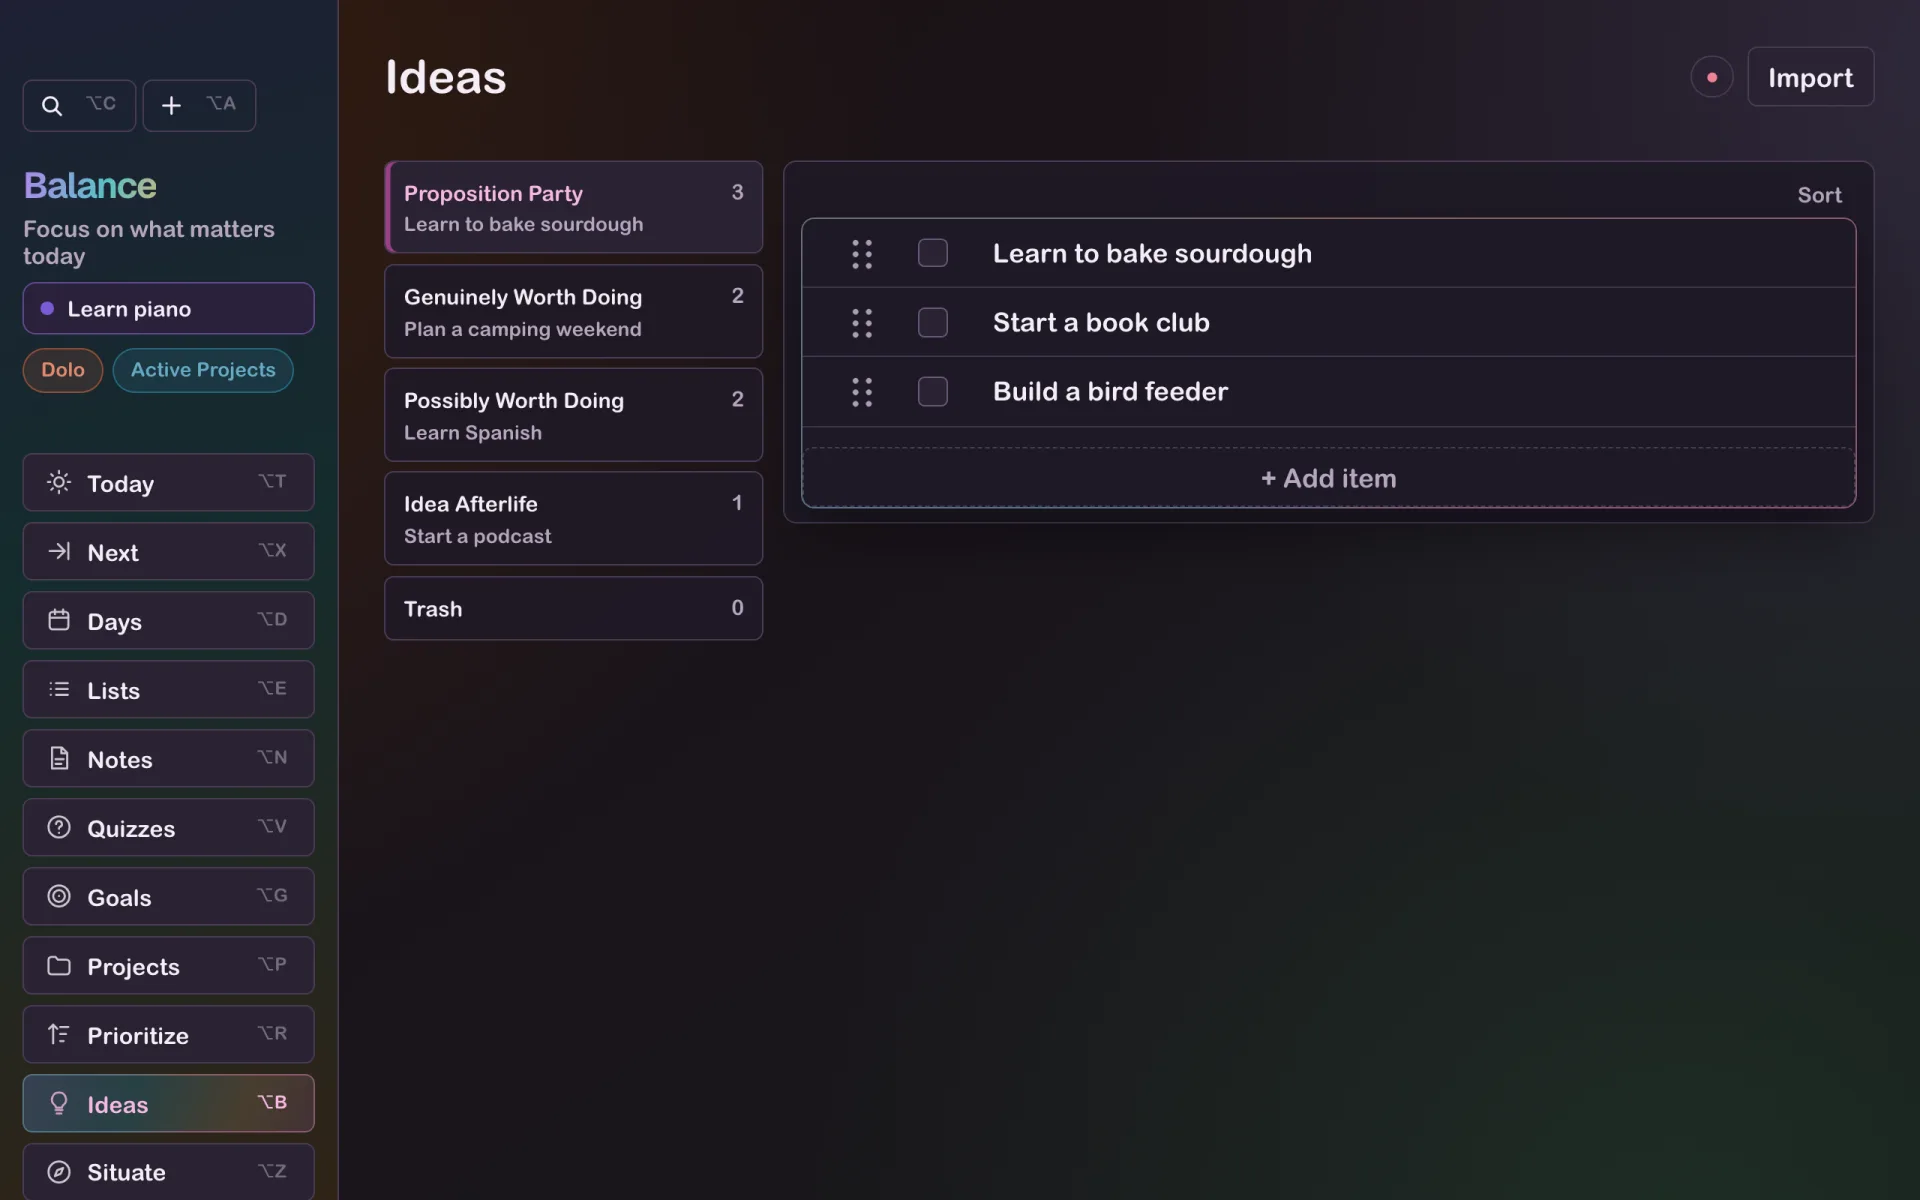
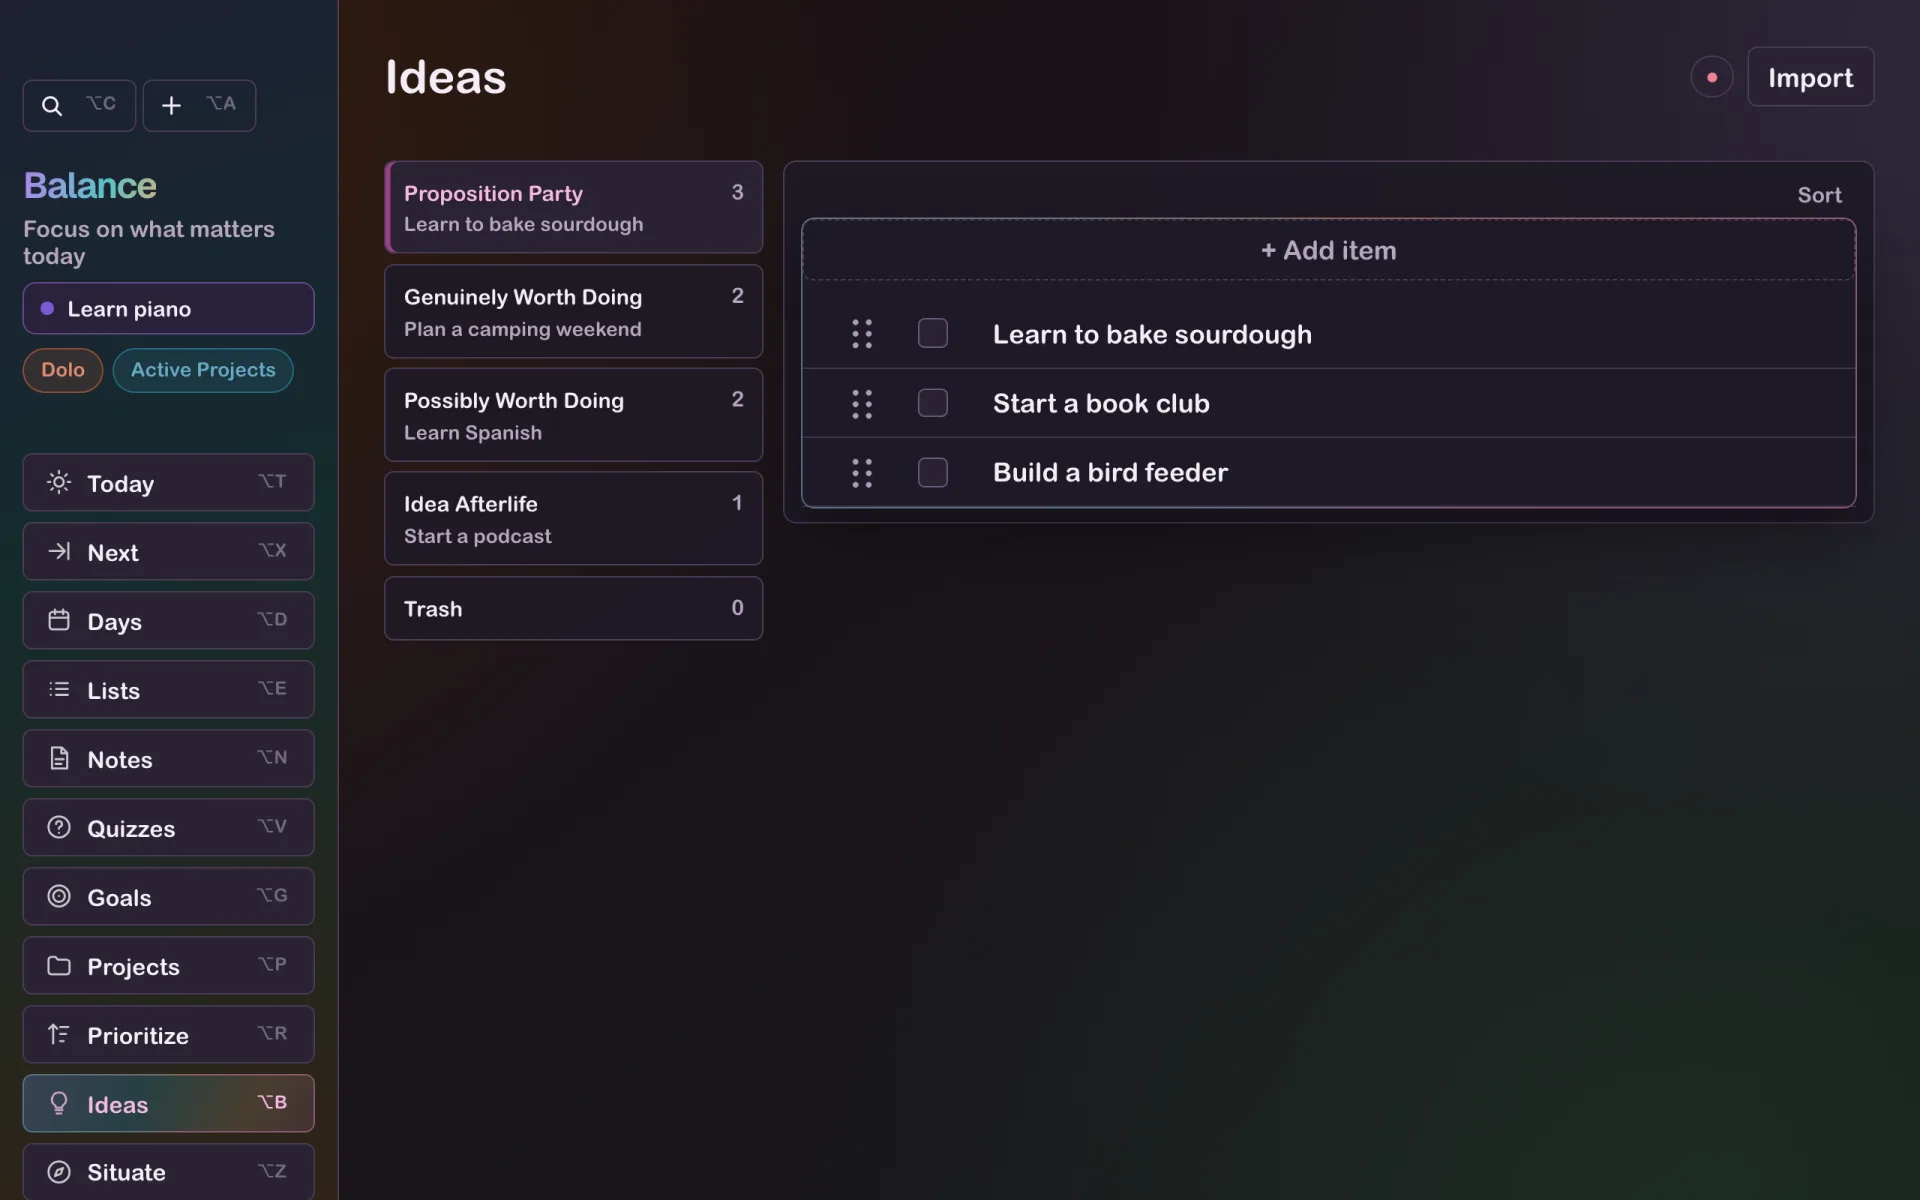
Ideas: add new propositions on top and select with Cmd+Shift+A
New ideas now enter Proposition Party at the top from quick add, Add item,
voice recording and import, and the group's Add item button moves above its
list. The other groups still grow from the bottom. The sorter follows list
order, so it now starts with the newest ideas.

Cmd+Shift+A selects the idea being edited on the Ideas page.

Changed region(s): [[0.4375, 0.185, 0.7188, 0.4317]]

diff --git a/tests/visual/ideas.spec.ts b/tests/visual/ideas.spec.ts
@@ -109,11 +109,12 @@ test('quick-added ideas land in Proposition Party and move with timed unlocks', 
   await page.keyboard.press('Alt+A')
   const input = page.getByRole('textbox', { name: 'New idea' })
   await expect(input).toBeFocused()
-  await input.fill('Synthetic idea one')
+  await input.fill('Synthetic idea two')
   await input.press('Enter')
   await expect(input).toBeHidden()
   await page.getByRole('button', { name: 'Add idea', exact: true }).click()
-  await input.fill('Synthetic idea two')
+  // The newest idea goes on top.
+  await input.fill('Synthetic idea one')
   await page.getByRole('button', { name: 'Save', exact: true }).click()
   expect(await groups(page)).toEqual({ proposition: ['Synthetic idea one', 'Synthetic idea two'] })
 
@@ -151,6 +152,45 @@ test('quick-added ideas land in Proposition Party and move with timed unlocks', 
   await expect(page.getByRole('region', { name: 'Daily plan' })).toBeVisible()
   await openView(page, 'Ideas')
   await expect(rows(page, 'genuine')).toHaveText(['Synthetic idea one edited'])
+})
+
+test('Add item starts at the top of Proposition Party and the bottom of other groups', async ({ page }) => {
+  await open(page)
+  await openView(page, 'Ideas')
+  await storeCall(page, `
+    plannerStore.addIdea('Synthetic older')
+    plannerStore.addIdea('Synthetic kept', 'genuine')
+  `)
+
+  await pane(page, 'proposition').getByRole('button', { name: '+ Add item' }).click()
+  await expect(rows(page, 'proposition').first()).toBeFocused()
+  await page.keyboard.type('Synthetic newest')
+  await expect(rows(page, 'proposition')).toHaveText(['Synthetic newest', 'Synthetic older'])
+
+  await card(page, 'genuine').click()
+  await pane(page, 'genuine').getByRole('button', { name: '+ Add item' }).click()
+  await expect(rows(page, 'genuine').last()).toBeFocused()
+  await page.keyboard.type('Synthetic appended')
+  await expect(rows(page, 'genuine')).toHaveText(['Synthetic kept', 'Synthetic appended'])
+})
+
+test('Cmd+Shift+A selects the idea being edited', async ({ page }, testInfo) => {
+  test.skip(testInfo.project.name === 'mobile', 'Keyboard flow is covered on desktop')
+  await open(page)
+  await openView(page, 'Ideas')
+  await storeCall(page, `
+    plannerStore.addIdea('Synthetic second')
+    plannerStore.addIdea('Synthetic first')
+  `)
+
+  await rows(page, 'proposition').nth(1).click()
+  await page.keyboard.press('Meta+Shift+A')
+  await expect(pane(page, 'proposition').locator('[data-plan-item-id].selected')).toHaveText(/Synthetic second/)
+  await expect(page.getByRole('group', { name: 'Move idea to' })).toBeVisible()
+  await expect(rows(page, 'proposition').nth(1)).not.toBeFocused()
+
+  await page.keyboard.press('ArrowUp')
+  await expect(pane(page, 'proposition').locator('[data-plan-item-id].selected')).toHaveText(/Synthetic first/)
 })
 
 test('quick add reopens the idea saved within the last 5 minutes', async ({ page }, testInfo) => {
@@ -206,10 +246,10 @@ test('a new day sorts every proposition one card at a time', async ({ page }, te
   test.skip(testInfo.project.name === 'mobile', 'Keyboard flow is covered on desktop')
   await open(page)
   await storeCall(page, `
-    plannerStore.addIdea('Synthetic keep')
-    plannerStore.addIdea('Synthetic drop')
-    plannerStore.addIdea('Synthetic frag')
     plannerStore.addIdea('ment')
+    plannerStore.addIdea('Synthetic frag')
+    plannerStore.addIdea('Synthetic drop')
+    plannerStore.addIdea('Synthetic keep')
   `)
 
   const dialog = sorter(page)
@@ -260,10 +300,10 @@ test('sorting new ideas resumes after a reload until it is closed', async ({ pag
   test.skip(testInfo.project.name === 'mobile', 'Keyboard flow is covered on desktop')
   await open(page)
   await storeCall(page, `
-    plannerStore.addIdea('Synthetic first')
     plannerStore.addIdea('Synthetic second')
+    plannerStore.addIdea('Synthetic first')
   `)
-  const choice = page.locator('.empty-state').getByRole('button', { name: 'Default day' })
+  const choice =page.locator('.empty-state').getByRole('button', { name: 'Default day' })
 
   await page.keyboard.press('Alt+Shift+D')
   await expectIdea(page, 1, 2)
@@ -297,10 +337,10 @@ test('Back undoes the previous sort decision so an idea never lands in two place
   test.skip(testInfo.project.name === 'mobile', 'Keyboard flow is covered on desktop')
   await open(page)
   await storeCall(page, `
-    plannerStore.addIdea('Synthetic first')
     plannerStore.addIdea('Synthetic second')
+    plannerStore.addIdea('Synthetic first')
   `)
-  const state = () => page.evaluate(async () => {
+  const state =() => page.evaluate(async () => {
     const path = '/src/lib/store.ts'
     const { plannerStore } = await import(/* @vite-ignore */ path)
     let value: any
@@ -335,9 +375,9 @@ test('Back after a note or a group returns the idea to Proposition Party', async
   await open(page)
   await openView(page, 'Ideas')
   await storeCall(page, `
-    plannerStore.addIdea('Synthetic first')
-    plannerStore.addIdea('Synthetic second')
     plannerStore.addIdea('Synthetic third')
+    plannerStore.addIdea('Synthetic second')
+    plannerStore.addIdea('Synthetic first')
   `)
   const notes = () => page.evaluate(async () => {
     const path = '/src/lib/store.ts'
@@ -377,8 +417,8 @@ test('the Proposition Party Sort button opens the sorter on demand', async ({ pa
   await expect(sort).toBeDisabled()
 
   await storeCall(page, `
-    plannerStore.addIdea('Synthetic sort one')
     plannerStore.addIdea('Synthetic sort two')
+    plannerStore.addIdea('Synthetic sort one')
   `)
   await sort.click()
   await expectIdea(page, 1, 2)
@@ -397,10 +437,10 @@ test('the sorter stays with its page and cuts ideas to Trash and the clipboard',
   await open(page)
   await openView(page, 'Ideas')
   await storeCall(page, `
+    plannerStore.addIdea('Synthetic stay')
     const id = plannerStore.addIdea('Synthetic cut me', 'proposition', '<strong>Synthetic cut me</strong>')
     const child = plannerStore.addIdea('Synthetic cut child')
     plannerStore.moveIdeaItem('bucket_proposition', child, id, 'inside')
-    plannerStore.addIdea('Synthetic stay')
   `)
   await pane(page, 'proposition').getByRole('button', { name: 'Sort', exact: true }).click()
   await expectIdea(page, 1, 2)
@@ -437,12 +477,12 @@ test('the sorter stays with its page and cuts ideas to Trash and the clipboard',
 test('sorting moves ideas into new notes with their formatting and children, and supports undo', async ({ page }) => {
   await open(page)
   await storeCall(page, `
+    plannerStore.addIdea('Synthetic second note')
     const id = plannerStore.addIdea('Synthetic note', 'proposition', '<strong>Synthetic note</strong>')
     plannerStore.patchIdeaItem('bucket_proposition', id, { done: true })
     const child = plannerStore.addRootIdeaItem('bucket_proposition')
     plannerStore.patchIdeaItem('bucket_proposition', child, { text: 'Synthetic child', html: '<em>Synthetic child</em>' })
     plannerStore.moveIdeaItem('bucket_proposition', child, id, 'inside')
-    plannerStore.addIdea('Synthetic second note')
   `)
   await openView(page, 'Ideas')
   await pane(page, 'proposition').getByRole('button', { name: 'Sort', exact: true }).click()
@@ -486,8 +526,8 @@ test('a day generation sort can add ideas to the new day', async ({ page }, test
   test.skip(testInfo.project.name === 'mobile', 'Keyboard flow is covered on desktop')
   await open(page)
   await storeCall(page, `
-    plannerStore.addIdea('Synthetic for today')
     plannerStore.addIdea('Synthetic later')
+    plannerStore.addIdea('Synthetic for today')
   `)
 
   // Sorts outside generation have no day to add to.
@@ -516,8 +556,8 @@ test('a day generation sort can add ideas to the new day', async ({ page }, test
 test('day choices survive closing, navigation and reload without applying to another date', async ({ page }) => {
   await open(page)
   await storeCall(page, `
-    plannerStore.addIdea('Synthetic reserved')
     plannerStore.addIdea('Synthetic remaining')
+    plannerStore.addIdea('Synthetic reserved')
   `)
   await generateDay(page)
   await page.keyboard.press('y')
@@ -556,9 +596,9 @@ test('a day keeps its sort progress across trash, cut and reopening', async ({ p
   test.skip(testInfo.project.name === 'mobile', 'Keyboard flow is covered on desktop')
   await open(page)
   await storeCall(page, `
-    plannerStore.addIdea('Synthetic trash')
-    plannerStore.addIdea('Synthetic cut')
     plannerStore.addIdea('Synthetic later')
+    plannerStore.addIdea('Synthetic cut')
+    plannerStore.addIdea('Synthetic trash')
   `)
   const hint = sorter(page).locator('.paste-review-hint')
   await generateDay(page)
@@ -605,8 +645,8 @@ test('pasted lists import as ideas and open the sorter; trash clears after 30 da
   })
   await page.getByRole('button', { name: /^Import 2 ideas/ }).click()
   await page.keyboard.press('Escape')
-  await expect(rows(page, 'proposition').nth(5)).toHaveText('Synthetic **task** one')
-  await expect(rows(page, 'proposition').nth(7)).toHaveText('Synthetic task two')
+  await expect(rows(page, 'proposition').nth(0)).toHaveText('Synthetic **task** one')
+  await expect(rows(page, 'proposition').nth(2)).toHaveText('Synthetic task two')
 
   await page.getByRole('button', { name: 'Import', exact: true }).click()
   await paste.evaluate((element) => {
@@ -617,9 +657,9 @@ test('pasted lists import as ideas and open the sorter; trash clears after 30 da
   })
   await page.getByRole('button', { name: /^Import 3 ideas/ }).click()
   await page.keyboard.press('Escape')
-  await expect(rows(page, 'proposition').nth(8)).toHaveText('Synthetic apple title')
-  await expect(rows(page, 'proposition').nth(10)).toHaveText('Synthetic apple second')
-  await expect(rows(page, 'proposition').nth(10).locator('em')).toHaveText('second')
+  await expect(rows(page, 'proposition').nth(0)).toHaveText('Synthetic apple title')
+  await expect(rows(page, 'proposition').nth(2)).toHaveText('Synthetic apple second')
+  await expect(rows(page, 'proposition').nth(2).locator('em')).toHaveText('second')
 
   await pane(page, 'proposition').locator('[data-plan-item-id]').filter({ hasText: 'Synthetic delta' }).getByRole('button', { name: 'Select item' }).click()
   await page.keyboard.press('t')

diff --git a/src/lib/IdeasPanel.svelte b/src/lib/IdeasPanel.svelte
@@ -115,12 +115,25 @@
     return active instanceof HTMLElement && (active.isContentEditable || active.matches('input, textarea, select'))
   }
 
+  function focusedIdeaId(): Id | null {
+    const active = document.activeElement
+    const row = active instanceof Element ? active.closest<HTMLElement>('.ideas-panel [data-plan-item-id]') : null
+    return row?.dataset.planItemId ?? null
+  }
+
+  // Cmd/Ctrl+Shift+A selects the idea being edited, like on Today.
+  function selectFocusedIdea(event: KeyboardEvent) {
+    const itemId = focusedIdeaId()
+    if (!itemId) return
+    event.preventDefault()
+    if (document.activeElement instanceof HTMLElement) document.activeElement.blur()
+    select(itemId)
+  }
+
   // Cmd/Ctrl+D toggles done like on Today: the selected idea stays selected,
   // and completing the idea being edited moves the caret to the one below.
   function toggleDoneFromKeyboard(event: KeyboardEvent) {
-    const active = document.activeElement
-    const row = active instanceof Element ? active.closest<HTMLElement>('.ideas-panel [data-plan-item-id]') : null
-    const target = selectedItemId ?? row?.dataset.planItemId
+    const target = selectedItemId ?? focusedIdeaId()
     const found = target ? findIdea(groups, target) : null
     if (!found) return
     event.preventDefault()
@@ -133,6 +146,10 @@
   function handleKeydown(event: KeyboardEvent) {
     if ((event.metaKey || event.ctrlKey) && !event.altKey && !event.shiftKey && event.key.toLowerCase() === 'd') {
       toggleDoneFromKeyboard(event)
+      return
+    }
+    if ((event.metaKey || event.ctrlKey) && !event.altKey && event.shiftKey && event.key.toLowerCase() === 'a') {
+      selectFocusedIdea(event)
       return
     }
     if (event.ctrlKey || event.altKey || event.repeat || editingText()) return
@@ -211,12 +228,11 @@
   }
 
   async function addItem(groupId: Id) {
-    plannerStore.addRootIdeaItem(groupId)
+    const itemId = plannerStore.addRootIdeaItem(groupId)
     await tick()
-    const input = Array.from(document.querySelectorAll<HTMLDivElement>(
-      `[data-plan-item-scope="${CSS.escape(groupId)}"] [data-plan-text-focus-target]`,
-    )).at(-1)
-    input?.focus()
+    document.querySelector<HTMLDivElement>(
+      `[data-plan-item-scope="${CSS.escape(groupId)}"] [data-plan-item-id="${CSS.escape(itemId)}"] [data-plan-text-focus-target]`,
+    )?.focus()
   }
 
   onDestroy(() => {
@@ -309,6 +325,9 @@
         </header>
       {/if}
       <div class="list-panel idea-group-list" data-plan-item-scope={groupsByKind[activeGroup].id}>
+        {#if activeGroup === 'proposition'}
+          <button class="add-row add-row-top" type="button" on:click={() => { void addItem(groupsByKind[activeGroup].id) }}>+ Add item</button>
+        {/if}
         {#each activeItems as item (item.id)}
           {@const clip = clipForIdea.get(item.id)}
           <PlanItemEditor
@@ -357,7 +376,9 @@
             </button>
           {/if}
         {/each}
-        <button class="add-row" type="button" on:click={() => { void addItem(groupsByKind[activeGroup].id) }}>+ Add item</button>
+        {#if activeGroup !== 'proposition'}
+          <button class="add-row" type="button" on:click={() => { void addItem(groupsByKind[activeGroup].id) }}>+ Add item</button>
+        {/if}
       </div>
       {#if selected}
         <div class="idea-move-strip" role="group" aria-label="Move idea to">
@@ -393,6 +414,7 @@
 <style>
   .ideas-panel { display: grid; gap: 12px; align-content: start; }
   .page-header h2 { margin: 0; }
+  .add-row-top { margin: 0 0 12px; }
   .template-panel-actions { display: flex; flex-wrap: wrap; align-items: center; gap: 8px; }
   .ideas-layout {
     display: grid;

diff --git a/src/lib/store.ts b/src/lib/store.ts
@@ -2543,7 +2543,7 @@ function createPlannerStore() {
       if (!trimmed) return null
       const item: IdeaItem = { ...createPlanItem(trimmed), ...(html ? { html } : {}), bucketedAt: nowISO() }
       commitEntities('add_idea', { kind, itemId: item.id }, (state) =>
-        updateIdeaGroup(state, kind, (group) => ({ ...group, items: [...group.items, item] })))
+        updateIdeaGroup(state, kind, (group) => withNewIdeas(group, [item])))
       return item.id
     },
 
@@ -2552,7 +2552,7 @@ function createPlannerStore() {
       const item: IdeaItem = { ...createPlanItem(''), bucketedAt: nowISO() }
       const clip: VoiceClip = { id: createId('voice'), createdAt: nowISO(), ...recording, ideaId: item.id }
       commitEntities('add_voice_idea', { itemId: item.id, clipId: clip.id }, (state) => state.voiceClips.some((existing) => existing.id === clip.id) ? state : {
-        ...updateIdeaGroup(state, 'proposition', (group) => ({ ...group, items: [...group.items, item] })),
+        ...updateIdeaGroup(state, 'proposition', (group) => withNewIdeas(group, [item])),
         voiceClips: [...state.voiceClips, clip],
       })
       return item.id
@@ -2589,7 +2589,7 @@ function createPlannerStore() {
       const bucketedAt = nowISO()
       const fresh = clonePlanItemsForPaste(items).map((item) => ({ ...item, bucketedAt }))
       commitEntities('import_ideas', { kind, count: fresh.length }, (state) =>
-        updateIdeaGroup(state, kind, (group) => ({ ...group, items: [...group.items, ...fresh] })))
+        updateIdeaGroup(state, kind, (group) => withNewIdeas(group, fresh)))
       return fresh.map((item) => item.id)
     },
 
@@ -2682,7 +2682,7 @@ function createPlannerStore() {
     addRootIdeaItem(groupId: Id) {
       const item: IdeaItem = { ...createPlanItem(), bucketedAt: nowISO() }
       commitEntities('add_idea_item', { groupId, parentId: null, item }, (state) =>
-        updateIdeaGroupById(state, groupId, (group) => ({ ...group, items: addPlanItem(group.items, null, item) })))
+        updateIdeaGroupById(state, groupId, (group) => withNewIdeas(group, [item])))
       return item.id
     },
 
@@ -4155,6 +4155,11 @@ function deleteOrTrashIdea(state: AppState, groupId: Id, itemId: Id, preserveChi
   const { dayAssignmentDate: _dayAssignmentDate, ...unassigned } = item as IdeaItem
   const trashed: IdeaItem = { ...unassigned, children, bucketedAt: nowISO() }
   return updateIdeaGroup(removed, 'trash', (trash) => ({ ...trash, items: [...trash.items, trashed] }))
+}
+
+// Proposition Party grows from the top; the other groups grow from the bottom.
+function withNewIdeas(group: IdeaGroup, items: IdeaItem[]): IdeaGroup {
+  return { ...group, items: group.kind === 'proposition' ? [...items, ...group.items] : [...group.items, ...items] }
 }
 
 // Idea groups are fixed records created on first write, so missing ones are

diff --git a/tests/visual/voice-ideas.spec.ts b/tests/visual/voice-ideas.spec.ts
@@ -71,7 +71,7 @@ test('a recorded idea persists, waits for transcription and leaves with its idea
     { text: 'Synthetic', start: 0, end: 0.4 }, { text: 'spoken', start: 0.4, end: 0.8 }, { text: 'idea.', start: 0.8, end: 1.2 },
   ], model: 'test', transcribedAt: '2026-10-27T00:00:00Z' })`, clip.id)
   current = await state(page)
-  expect(current.ideaBuckets[0].items[0].text).toBe('Synthetic spoken idea.')
+  expect(current.ideaBuckets[0].items.find((item: any) => item.id === clip.ideaId).text).toBe('Synthetic spoken idea.')
 
   // Sorting the idea out of Proposition Party deletes its audio; undo brings it back.
   await storeCall(page, "plannerStore.moveIdeaToGroup(arg, 'possible')", clip.ideaId)

diff --git a/src/lib/KeyboardShortcutsModal.svelte b/src/lib/KeyboardShortcutsModal.svelte
@@ -132,6 +132,7 @@
       title: 'Ideas',
       shortcuts: [
         { keys: ['G / P / A / T / U'], label: 'Move the selected idea to Genuinely / Possibly / Afterlife / Trash / Proposition Party' },
+        { keys: ['mod', 'shift', 'A'], label: 'Select the focused idea' },
         { keys: ['up'], label: 'Select the previous / next idea', alt: ['down'] },
         { keys: ['del'], label: 'Move the selected idea to Trash' },
         { keys: ['Y / N'], label: 'Sorting: answer the key question' },
